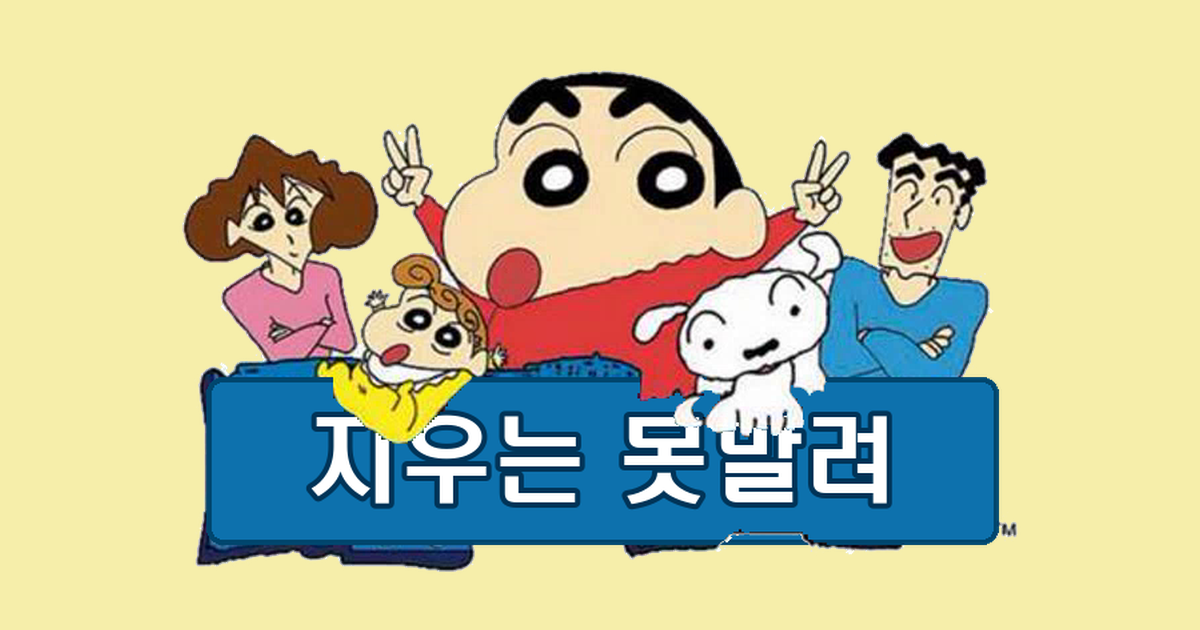
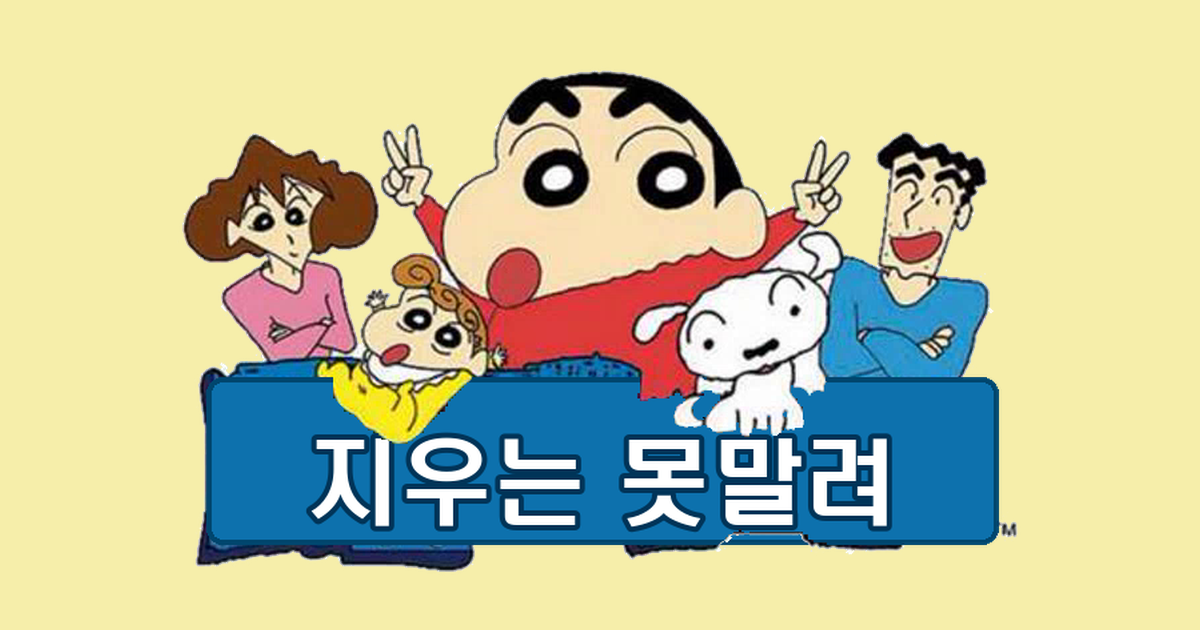
표지 로고 글자를 아래로 내림
흰둥이 paws sat over the vertically centered text. Bottom-align it inside
the board, in both the HTML board and the og:image composition.

Claude-Session: https://claude.ai/code/session_013Mg9FWLvy4HeWMXqzWFMEg

Changed region(s): [[0.2467, 0.6333, 0.7708, 0.8444]]

diff --git a/index.html b/index.html
@@ -284,7 +284,9 @@ video.cast-media{
   left:4.06%;top:61.58%;width:92.81%;height:31.03%;
   background:#0D71AD;
   border:3px solid #00466E;border-radius:10px;
-  display:grid;place-items:center;
+  /* 흰둥이가 간판 위쪽을 덮고 있어서, 글자를 아래쪽에 붙인다. */
+  display:grid;place-items:end center;
+  padding-bottom:7%;
 }
 .logo-board span{
   font-family:var(--title);
